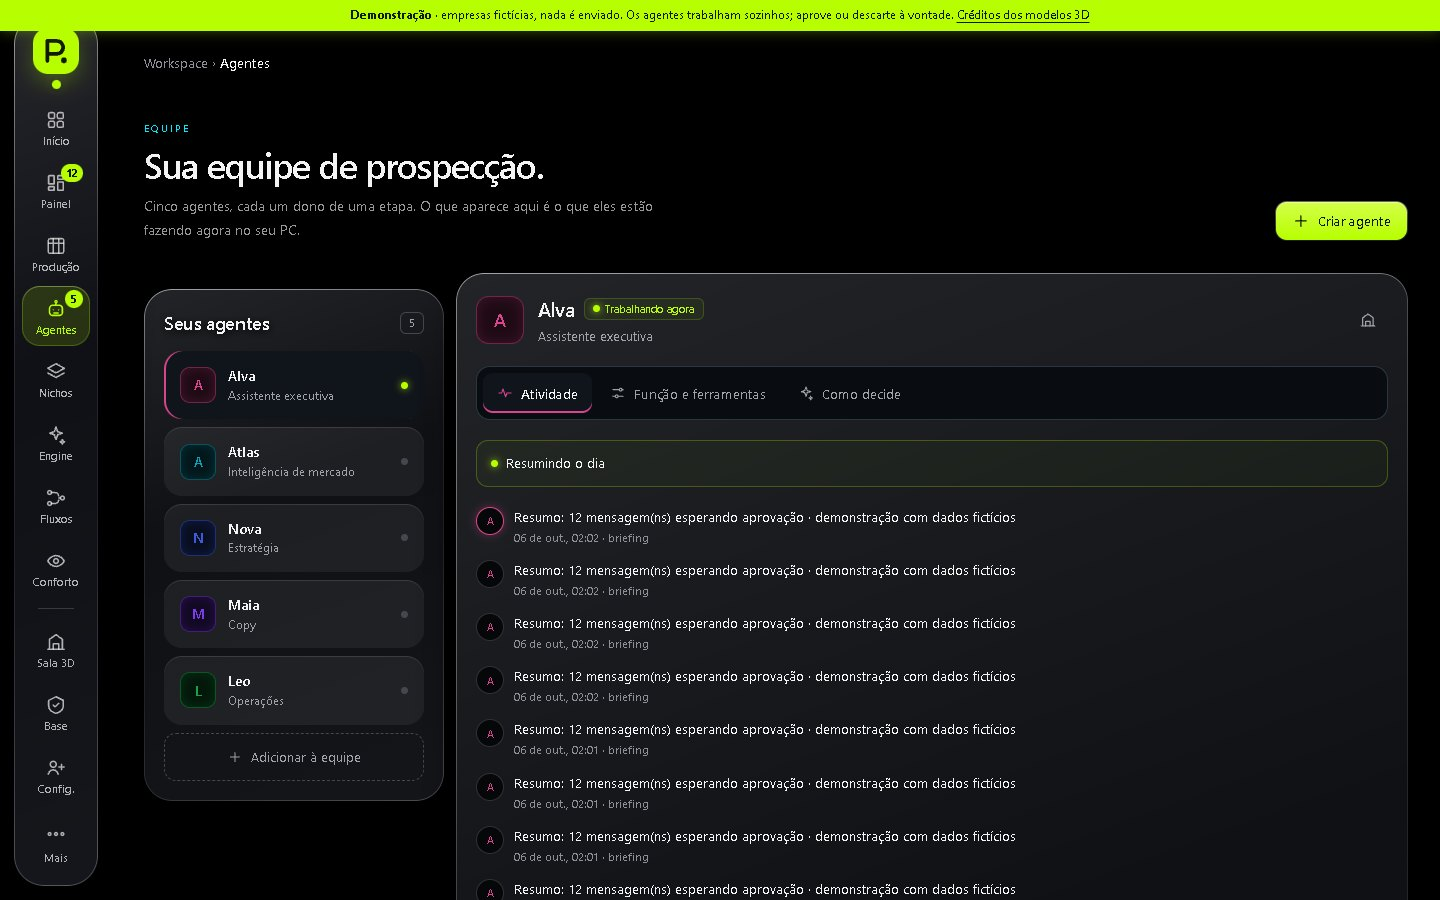
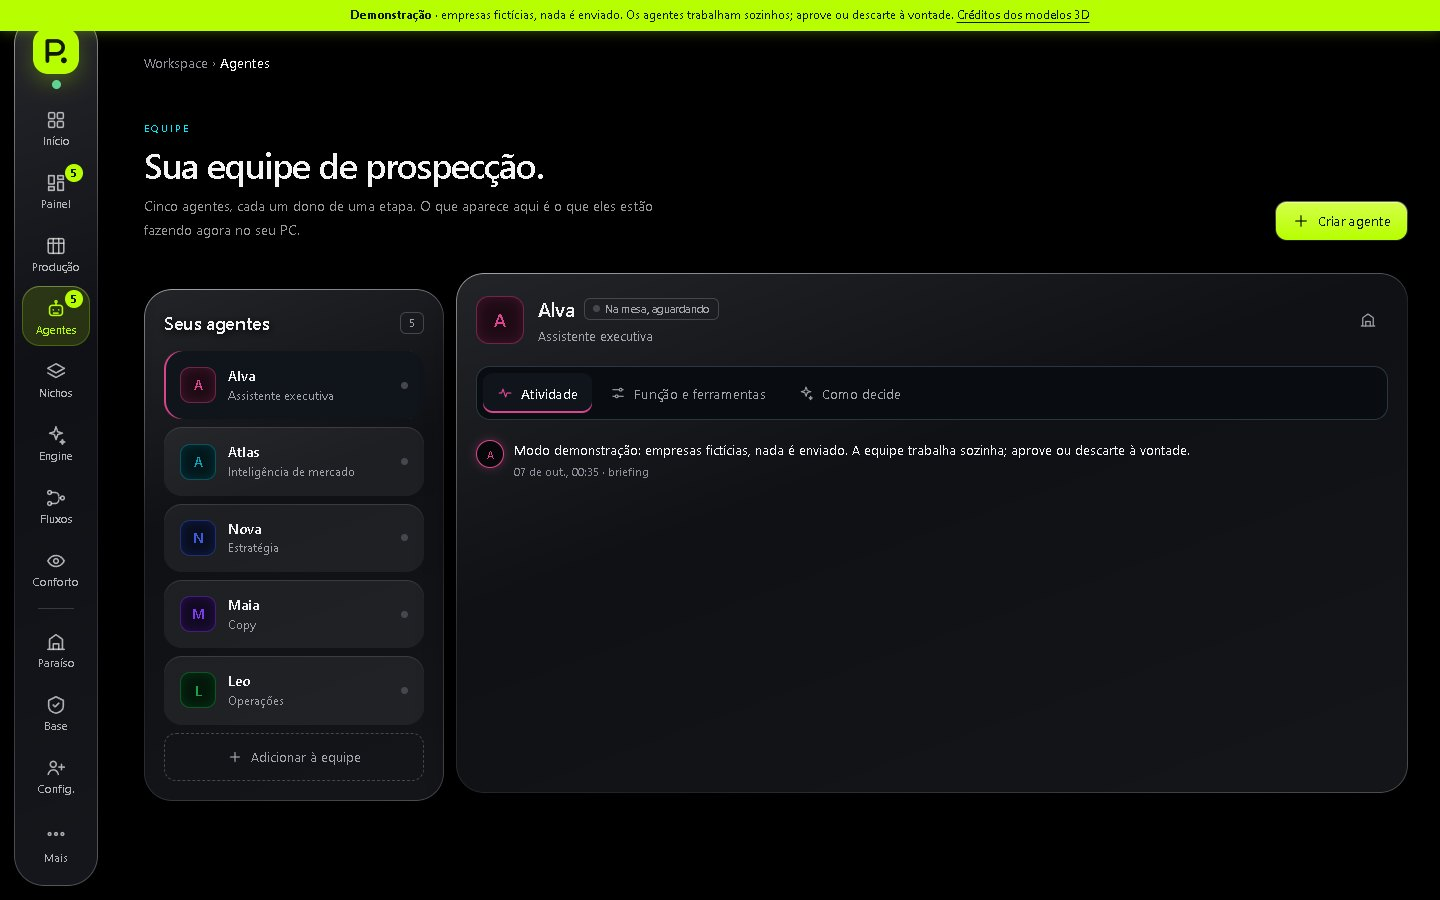
Paraiso Artificial: fachada de vidro, vista da baia e chuva no vidro, agentes na mesa e README atualizado
- Sala 3D agora se chama Paraiso Artificial (titulo, barra lateral, textos)
- Fachada de vidro do piso ao teto no lugar das janelinhas do kit (sala/fachada.js)
- Vista: foto de baia como fundo da cena (cover, mar embaixo) e video de chuva no vidro em mistura aditiva;
  os dois sao arquivos pessoais fora do git, sem eles a cena usa um ceu em degrade
- Agentes sentados na mesa (so saem para cafe e reuniao), robo com doca, sofa e plantas reais, TV com textura a 15 quadros por segundo
- README com os novos prints (sem a foto pessoal) e o novo nome; capturas.py espera a cena montar e bloqueia a midia pessoal

diff --git a/public/sala/fachada.js b/public/sala/fachada.js
@@ -1,0 +1,122 @@
+// Fachada de vidro do piso ao teto (blindex) nas paredes do fundo e da esquerda, no lugar das janelinhas do kit.
+// Montantes de alumínio escovado, viga de topo com faixa de LED, rodapé escuro.
+// Atrás do vidro: a foto "Paraíso Artificial" (fundo do Windows do Victor) como vista do prédio; sem a foto, um céu em degradê.
+// Sobre o vidro: o vídeo de chuva em mistura aditiva (só os brilhos das gotas aparecem). Foto e vídeo são arquivos locais que não vão
+// para o git; sem eles a fachada funciona do mesmo jeito. Nenhuma luz nova na cena (PointLight multiplicava o tempo de compilação).
+import * as THREE from 'three';
+
+function texturaCeu(noite) {
+  const c = document.createElement('canvas');
+  c.width = 8; c.height = 256;
+  const g = c.getContext('2d');
+  const gr = g.createLinearGradient(0, 0, 0, 256);
+  if (noite) { gr.addColorStop(0, '#060912'); gr.addColorStop(0.55, '#101a36'); gr.addColorStop(0.85, '#27355f'); gr.addColorStop(1, '#4a4f7a'); }
+  else { gr.addColorStop(0, '#8fb8e6'); gr.addColorStop(0.6, '#bcd6ee'); gr.addColorStop(1, '#e9eff5'); }
+  g.fillStyle = gr; g.fillRect(0, 0, 8, 256);
+  const t = new THREE.CanvasTexture(c);
+  t.colorSpace = THREE.SRGBColorSpace;
+  return t;
+}
+
+// vídeo de chuva como textura: 15 quadros por segundo bastam e cortam o envio de imagem para a placa de vídeo
+function texturaChuva(url) {
+  const video = document.createElement('video');
+  video.src = url; video.muted = true; video.loop = true; video.playsInline = true; video.preload = 'auto';
+  video.disablePictureInPicture = true; video.disableRemotePlayback = true;
+  const t = new THREE.VideoTexture(video);
+  t.colorSpace = THREE.SRGBColorSpace;
+  t.generateMipmaps = false; t.minFilter = THREE.LinearFilter;
+  t.wrapS = THREE.RepeatWrapping;
+  let ultimo = 0;
+  Object.defineProperty(t, 'needsUpdate', { set(v) { if (v !== true) return; const agora = performance.now(); if (agora - ultimo < 66) return; ultimo = agora; this.version++; } });
+  // pausa com a aba escondida (e volta sozinha): não gasta decodificação à toa
+  const tocar = () => { if (!document.hidden) video.play().catch(() => {}); else video.pause(); };
+  document.addEventListener('visibilitychange', tocar);
+  tocar();
+  return t;
+}
+
+export function criarFachada(cena, { X0, X1, Z0, Z1, altura = 3.3, fundoUrl = null, chuvaUrl = null, animar = true }) {
+  const vidro = new THREE.MeshPhysicalMaterial({ color: 0xc7e0f0, transparent: true, opacity: 0.16, roughness: 0.04, metalness: 0, clearcoat: 1, clearcoatRoughness: 0, envMapIntensity: 1.6, depthWrite: false });
+  const aluminio = new THREE.MeshStandardMaterial({ color: 0xa7b0ba, roughness: 0.32, metalness: 0.9 });
+  const escuro = new THREE.MeshStandardMaterial({ color: 0x23262d, roughness: 0.5, metalness: 0.6 });
+  const led = new THREE.MeshBasicMaterial({ color: 0xe6f1ff });
+  const grupo = new THREE.Group();
+  const caixa = (w, h, d, mat, x, y, z) => { const m = new THREE.Mesh(new THREE.BoxGeometry(w, h, d), mat); m.position.set(x, y, z); grupo.add(m); return m; };
+
+  // textura da chuva (uma só, repetida ao longo de cada parede) e material aditivo
+  const chuva = chuvaUrl && animar ? texturaChuva(chuvaUrl) : null;
+  const matChuva = chuva ? new THREE.MeshBasicMaterial({ map: chuva, transparent: true, blending: THREE.AdditiveBlending, depthWrite: false, opacity: 0.7, color: 0xffffff }) : null;
+
+  for (const lado of ['fundo', 'esquerda']) {
+    const comp = lado === 'fundo' ? X1 - X0 : Z1 - Z0;
+    const eixoX = lado === 'fundo';
+    const pos = (t, y, e = 0) => (eixoX ? [X0 + t, y, Z0 + 0.06 + e] : [X0 + 0.06 + e, y, Z0 + t]);
+    const dim = (w, h, d) => (eixoX ? [w, h, d] : [d, h, w]);
+    const [px, py, pz] = pos(comp / 2, altura / 2);
+    caixa(...dim(comp, altura, 0.02), vidro, px, py, pz).renderOrder = 3;           // vidro corrido
+    const n = Math.round(comp / 2.17);
+    for (let i = 0; i <= n; i++) { const [x, y, z] = pos((i * comp) / n, altura / 2); caixa(...dim(0.06, altura, 0.1), aluminio, x, y, z); } // montantes
+    { const [x, y, z] = pos(comp / 2, 0.07); caixa(...dim(comp, 0.14, 0.14), escuro, x, y, z); }                                         // rodapé escuro
+    { const [x, y, z] = pos(comp / 2, altura - 0.13); caixa(...dim(comp, 0.26, 0.16), escuro, x, y, z); }                                // viga de topo
+    { const [x, y, z] = pos(comp / 2, altura - 0.29, 0.02); caixa(...dim(comp, 0.022, 0.03), led, x, y, z); }                           // faixa de LED sob a viga
+    if (matChuva) {
+      // gotas coladas no vidro, por dentro: a textura se repete para a proporção 16:9 do vídeo não esticar
+      const geo = new THREE.PlaneGeometry(comp, altura - 0.45);
+      const m = new THREE.Mesh(geo, matChuva);
+      const [x, y, z] = pos(comp / 2, (altura - 0.45) / 2 + 0.15, 0.05);
+      m.position.set(x, y, z);
+      if (!eixoX) m.rotation.y = Math.PI / 2;
+      m.renderOrder = 4;
+      grupo.add(m);
+      // repete a textura: o plano é largo e baixo, o vídeo é 16:9
+      geo.attributes.uv.array.forEach((v, i, a) => { if (i % 2 === 0) a[i] = v * (comp / ((altura - 0.45) * (16 / 9))); });
+      geo.attributes.uv.needsUpdate = true;
+    }
+  }
+  caixa(0.42, altura, 0.42, escuro, X0 + 0.21, altura / 2, Z0 + 0.21); // pilar da quina
+  cena.add(grupo);
+
+  // vista atrás do vidro
+  const noite = texturaCeu(true), dia = texturaCeu(false);
+  const NOITE = new THREE.Color(0x394468), CLARO = new THREE.Color(0xffffff);
+
+  // Com a foto: ela vira o FUNDO DA CENA (como um pano de fundo preso à tela, "cover"): o mar fica embaixo e as montanhas em cima,
+  // do jeito que a foto foi tirada (de cima, olhando para a baía), e o vidro mostra esse mesmo fundo. Sem a foto: céu em degradê.
+  if (fundoUrl) {
+    const IA = 1672 / 941; // proporção da foto
+    let foto = null, aspecto = 16 / 9;
+    const enquadrar = () => {
+      if (!foto) return;
+      if (aspecto > IA) { foto.repeat.set(1, IA / aspecto); foto.offset.set(0, (1 - IA / aspecto) * 0.4); }   // tela mais larga: corta em cima (sobra mar embaixo)
+      else { foto.repeat.set(aspecto / IA, 1); foto.offset.set((1 - aspecto / IA) * 0.5, 0); }                // tela mais estreita: corta dos lados
+    };
+    new THREE.TextureLoader().load(fundoUrl, (t) => {
+      t.colorSpace = THREE.SRGBColorSpace; t.anisotropy = 4;
+      foto = t; enquadrar(); cena.background = foto;
+    });
+    return {
+      ajustarAspecto(a) { aspecto = a; enquadrar(); },
+      // de dia a foto aparece inteira; à noite a mesma foto escurece (intensidade do fundo), sem trocar de imagem
+      aplicarHora(valorDia) {
+        if (foto) { cena.background = foto; cena.backgroundIntensity = 0.42 + 0.58 * Math.min(1, valorDia * 1.6); }
+        if (matChuva) matChuva.opacity = 0.45 + 0.35 * (1 - valorDia);
+      },
+    };
+  }
+
+  const matFundo = new THREE.MeshBasicMaterial({ map: noite, fog: false, depthWrite: false });
+  const fundo = new THREE.Mesh(new THREE.PlaneGeometry(X1 - X0 + 14, 30), matFundo);
+  fundo.position.set((X0 + X1) / 2 - 4, 11, Z0 - 8);
+  const esquerda = new THREE.Mesh(new THREE.PlaneGeometry(Z1 - Z0 + 14, 30), matFundo);
+  esquerda.position.set(X0 - 8, 11, (Z0 + Z1) / 2 + 4); esquerda.rotation.y = Math.PI / 2;
+  cena.add(fundo, esquerda);
+  return {
+    ajustarAspecto() {},
+    aplicarHora(valorDia) {
+      const m = valorDia > 0.35 ? dia : noite;
+      if (matFundo.map !== m) { matFundo.map = m; matFundo.needsUpdate = true; }
+      if (matChuva) matChuva.opacity = 0.45 + 0.35 * (1 - valorDia);
+    },
+  };
+}

diff --git a/public/sala.js b/public/sala.js
@@ -1,4 +1,4 @@
-// Sala 3D: escritório vivo. O estado vem de /api/estado e /api/stream (o mesmo do painel);
+// Paraíso Artificial (a antiga Sala 3D): escritório vivo. O estado vem de /api/estado e /api/stream (o mesmo do painel);
 // cada agente decide onde estar pela máquina de estados (sala/comportamento.js), anda pela
 // grade com A* (sala/caminhos.js) e mostra no monitor o que está fazendo de verdade.
 import { lerCena, salvarCena } from './sala/cena-salva.js';
@@ -134,7 +134,12 @@ cena.add(sol, sol.target);
 // luminárias das mesas são um brilho desenhado no tampo (cena.js).
 const LUZ_NOITE = new THREE.Color(0xffd9a8), LUZ_DIA = new THREE.Color(0xffffff);
 
-const CORES = escuro ? { piso: 0x8a6446, parede: 0xd8d2c6 } : { piso: 0xb5865c, parede: 0xe9e3d8 }; // mesma cor dos segmentos de janela do kit
+// foto "Paraíso Artificial" (fundo do Windows do Victor) e vídeo de chuva no vidro: arquivos pessoais que não vão para o git;
+// só olha o cabeçalho (aborta antes de baixar) e, sem o arquivo, a cena usa o céu em degradê
+const existe = async (url) => { const c = new AbortController(); try { const r = await fetch(url, { signal: c.signal }); c.abort(); return r.ok; } catch { return false; } };
+const FUNDO_URL = (await existe('/assets/fundo/paraiso-artificial.jpg')) ? '/assets/fundo/paraiso-artificial.jpg' : null;
+const CHUVA_URL = (await existe('/assets/video/chuva-vidro.mp4')) ? '/assets/video/chuva-vidro.mp4' : null;
+const CORES = { ...(escuro ? { piso: 0x8a6446, parede: 0xd8d2c6 } : { piso: 0xb5865c, parede: 0xe9e3d8 }), fundoUrl: FUNDO_URL, chuvaUrl: CHUVA_URL, animar: !semMovimento }; // cores = mesma cor dos segmentos de janela do kit
 const escritorio = criarEscritorio(cena, CORES);
 const multidao = criarMultidao(escritorio.grade);
 let vagas = null;
@@ -154,6 +159,7 @@ function aplicarHora(agora = new Date()) {
   const h = agora.getHours() + agora.getMinutes() / 60;
   const dia = Math.max(0, Math.sin(((h - 6) / 12) * Math.PI)); // 0 à noite, 1 ao meio-dia
   cena.background = CEU_NOITE.clone().lerp(CEU_DIA, Math.min(1, dia * 1.6));
+  escritorio.fachada?.aplicarHora(dia); // céu atrás do vidro
   const ang = ((h - 6) / 12) * Math.PI;
   sol.position.set(Math.cos(ang) * 16, 4 + Math.max(0, Math.sin(ang)) * 16, 10);
   sol.intensity = 0.35 + 2.0 * dia;
@@ -685,6 +691,7 @@ function ajustarTamanho() {
   if (!w || !h) return;
   renderer.setSize(w, h); rotulos.setSize(w, h);
   camera.aspect = w / h; camera.updateProjectionMatrix();
+  escritorio.fachada?.ajustarAspecto(camera.aspect); // a foto de fundo acompanha o formato da tela
   const g = vistaGeral();
   controles.maxDistance = Math.max(42, g.distancia + 6);
   if (!cameraMexida && !voo) { controles.target.copy(g.alvo); camera.position.copy(g.pos); }

diff --git a/public/sala/cena.js b/public/sala/cena.js
@@ -8,6 +8,7 @@ import { criarAssinatura } from './assinatura.js';
 import { GLTFLoader } from 'three/addons/loaders/GLTFLoader.js';
 import { bloquear, buscarCaminho, criarGrade } from './caminhos.js';
 import { criarColocador, metade, padronizar } from './modelos.js';
+import { criarFachada } from './fachada.js';
 
 const ESCALA_KIT = 2;
 const LARGURA = 26, PROFUNDIDADE = 18, ALTURA_PAREDE = 2.6;
@@ -74,9 +75,9 @@ export function criarEscritorio(cena, cores) {
     return m;
   };
   // fundo e lateral esquerda: segmentos de parede com janela do kit (2 m cada)
+  // fachada de vidro do piso ao teto (blindex) no lugar das janelinhas do kit
   const janelas = [];
-  for (let x = X0 + 1; x < X1; x += 2) janelas.push(por('wallWindow', x, Z0 + 0.09, 0, { obstaculo: false }));
-  for (let z = Z0 + 1; z < Z1; z += 2) janelas.push(por('wallWindow', X0 + 0.09, z, Math.PI / 2, { obstaculo: false }));
+  const fachada = criarFachada(cena, { X0, X1, Z0, Z1, fundoUrl: cores.fundoUrl, chuvaUrl: cores.chuvaUrl, animar: cores.animar });
   bloquear(grade, X0, Z0, X1, Z0 + 0.3, 0);
   bloquear(grade, X0, Z0, X0 + 0.3, Z1, 0);
   // lateral direita com porta (as mensagens saem por ela)
@@ -324,7 +325,7 @@ export function criarEscritorio(cena, cores) {
     g.position.y = Math.abs(Math.sin(robo.passo)) * 0.025; // passada das pernas
   }
 
-  return { grade, postos, pontos, janelas, adicionarPosto, atualizar, painel: painelLed, tv: tvReuniao, tvs: [tvReuniao, tvLounge], robo: () => (robo.grupo ? { x: robo.grupo.position.x, z: robo.grupo.position.z } : null), vagas: VAGAS.length, porta: new THREE.Vector3(X1 + 0.6, 1.2, PORTA_Z), pronto: Promise.all(pendentes) };
+  return { grade, postos, pontos, janelas, fachada, adicionarPosto, atualizar, painel: painelLed, tv: tvReuniao, tvs: [tvReuniao, tvLounge], robo: () => (robo.grupo ? { x: robo.grupo.position.x, z: robo.grupo.position.z } : null), vagas: VAGAS.length, porta: new THREE.Vector3(X1 + 0.6, 1.2, PORTA_Z), pronto: Promise.all(pendentes) };
 }
 
 // piso de tacos: tábuas com tons levemente diferentes e juntas escuras, desenhado no canvas

diff --git a/public/conforto.js b/public/conforto.js
@@ -16,7 +16,7 @@ function desenhar() {
       <label class="check"><input type="checkbox" id="calmo" ${p.calmo ? 'checked' : ''}> Ligar o modo calmo neste navegador</label>
       <ul>
         <li>Sem animação decorativa (o fundo de letras que seguem o cursor, transições, confete).</li>
-        <li>Agentes na Sala 3D vão direto aos lugares, sem multidão andando.</li>
+        <li>Agentes no Paraíso Artificial vão direto aos lugares, sem multidão andando.</li>
         <li>Sem som da sala (digitação e envelopes) e sem mascotes.</li>
       </ul>
       <p class="sub">${sistemaReduz ? 'Seu sistema já pede "reduzir movimento": as animações já estão reduzidas, com ou sem o modo calmo.' : 'Se o seu sistema tiver "reduzir movimento" ligado, isso já vale sozinho.'}</p>
@@ -29,7 +29,7 @@ function desenhar() {
         <li>Daemon (Alva), Wumpus (Atlas), Grue (Nova), Fantasma (Maia) e Verme (Leo).</li>
         <li>Ficam mais ausentes que presentes: somem por 2 a 6 minutos e ficam só 10 a 24 segundos.</li>
         <li>São pequenas (64 px), ficam nas bordas, olham para o seu cursor, às vezes brincam em dupla e somem “como mágica”.</li>
-        <li>Nunca bloqueiam um clique, não fazem som e não aparecem no modo calmo nem na Sala 3D.</li>
+        <li>Nunca bloqueiam um clique, não fazem som e não aparecem no modo calmo nem no Paraíso Artificial.</li>
       </ul>
       <label class="check"><input type="checkbox" id="mascotes-sistema" ${p.mascotesApesarDoSistema ? 'checked' : ''} ${p.calmo ? 'disabled' : ''}> Mostrar mesmo com “reduzir movimento” do sistema</label>
       <p class="sub">${sistemaReduz ? 'O seu computador está com as animações do Windows desligadas (comum para ganhar velocidade), então as criaturas só aparecem se você marcar esta opção.' : 'O seu sistema não pede menos movimento; esta opção só faz diferença se isso mudar.'}</p>

diff --git a/public/configurador.js b/public/configurador.js
@@ -87,7 +87,7 @@ function fichaHtml() {
   const ferr = (f.ferramentas || []).map((k) => lista.ferramentas[k] || k);
   return `<article class="ficha" aria-label="Ficha do agente">
     <header><span class="marca-item" style="background:${esc(a.cor)}">${esc((f.nome || '?')[0])}</span><div><h2>${esc(f.nome)}</h2><p>${esc(f.papel || '')}</p></div>
-      ${a.status === 'ativo' ? '<span class="ativo"><span class="ponto ok"></span>ativo · mesa na Sala 3D</span>' : ''}</header>
+      ${a.status === 'ativo' ? '<span class="ativo"><span class="ponto ok"></span>ativo · mesa no Paraíso Artificial</span>' : ''}</header>
     <dl>
       <dt>Função</dt><dd>${esc(f.papel || '—')}</dd>
       <dt>Modos</dt><dd>${esc((f.modos || []).join(', ') || '—')}</dd>
@@ -130,7 +130,7 @@ function desenharChat() {
     // estado vazio = convite: o que a conversa vai perguntar, na ordem (é uma sequência de verdade)
     chat.innerHTML = `<section class="boas-vindas" aria-labelledby="bv-titulo">
       <h2 id="bv-titulo">Monte um agente conversando</h2>
-      <p>São 8 perguntas curtas. No fim você revisa a ficha e o agente ganha uma mesa na Sala 3D.</p>
+      <p>São 8 perguntas curtas. No fim você revisa a ficha e o agente ganha uma mesa no Paraíso Artificial.</p>
       <ol class="etapas-config">${ETAPAS_CONVITE.map(([t, d]) => `<li><b>${esc(t)}</b><span>${esc(d)}</span></li>`).join('')}</ol>
       <div class="bv-acoes"><button class="btn primario" data-comecar>Começar um agente novo</button>
       ${document.querySelector('#lista .item') ? '<span class="sub">ou continue um da lista ao lado</span>' : ''}</div>

diff --git a/public/sala.html b/public/sala.html
@@ -3,7 +3,7 @@
 <head>
 <meta charset="utf-8">
 <meta name="viewport" content="width=device-width, initial-scale=1">
-<title>Sala 3D · Prospector</title>
+<title>Paraíso Artificial · Prospector</title>
 <meta name="description" content="O escritório dos agentes: cada um aparece fazendo o que está fazendo de verdade.">
 <link rel="icon" type="image/png" href="/icone/prospector.png">
 <link rel="stylesheet" href="/ui/base.css">
@@ -39,7 +39,7 @@
   <main class="principal sala">
     <header class="cabecalho">
       <button class="btn icone fantasma abrir-menu" data-abrir-menu aria-label="Abrir menu"><svg class="ic" viewBox="0 0 24 24"><path d="M4 7h16M4 12h16M4 17h10"/></svg></button>
-      <div class="titulo"><h1>Sala 3D</h1><p id="chips" class="saude">Montando o escritório…</p></div>
+      <div class="titulo"><h1>Paraíso Artificial</h1><p id="chips" class="saude">Montando o escritório…</p></div>
       <div class="acoes">
         <button class="btn" id="btn-textos" aria-pressed="false" title="Esconde os nomes sobre os agentes e a lista de eventos, para ver só o ambiente">Ocultar textos</button>
         <button class="btn" id="btn-tv" aria-expanded="false" aria-controls="tv-painel" title="TV ao vivo na sala de reunião">TV</button>

diff --git a/public/agentes.js b/public/agentes.js
@@ -114,7 +114,7 @@ async function desenhar() {
   const corpo = aba === 'atividade' ? await corpoAtividade(id) : aba === 'funcao' ? corpoFuncao(id) : await corpoDecide(id);
   if (meu !== pedido) return; // chegou resposta de uma troca de aba antiga
   $('#detalhe').innerHTML = `<div class="o-detalhe-topo" style="--cor:${esc(a.cor)}"><span class="o-avatar grande">${esc(a.nome[0])}</span><div><h2>${esc(a.nome)} <span class="selo-o ${cor}"><span class="o-ponto ${cls}"></span>${rot}</span></h2><p>${esc(a.papel)}</p></div>
-      <a class="btn icone fantasma" href="/sala.html" title="Ver ${esc(a.nome)} na Sala 3D" aria-label="Ver ${esc(a.nome)} na Sala 3D">${ICONES.sala}</a></div>
+      <a class="btn icone fantasma" href="/sala.html" title="Ver ${esc(a.nome)} no Paraíso Artificial" aria-label="Ver ${esc(a.nome)} no Paraíso Artificial">${ICONES.sala}</a></div>
     <div class="o-abas" role="tablist" aria-label="Detalhes de ${esc(a.nome)}" style="--aba:${esc(a.cor)}">${ABAS.map(([k, r, i]) => `<button role="tab" data-aba="${k}" aria-selected="${k === aba}" tabindex="${k === aba ? 0 : -1}">${i}${r}</button>`).join('')}</div>
     <div class="o-corpo" role="tabpanel">${corpo}</div>`;
 }

diff --git a/public/ui/shell.js b/public/ui/shell.js
@@ -34,7 +34,7 @@ const PAGINAS = [
   ['agentes', '/agentes.html', 'Agentes', 'workspace', 'Agentes'],
   ['nichos', '/nichos.html', 'Nichos', 'workspace', 'Nichos'],
   ['engine', '/engine.html', 'Engine', 'workspace', 'Engine'],
-  ['sala', '/sala.html', 'Sala 3D', 'escritorio', 'Sala 3D'],
+  ['sala', '/sala.html', 'Paraíso Artificial', 'escritorio', 'Paraíso'],
   ['base', '/base.html', 'Base do Mestre', 'escritorio', 'Base'],
   ['configurador', '/configurador.html', 'Configurador', 'escritorio', 'Config.'],
   ['fluxos', '/fluxos.html', 'Fluxos', 'workspace', 'Fluxos'],

diff --git a/public/inicio.js b/public/inicio.js
@@ -21,7 +21,7 @@ const MODOS = [
   ['/producao.html', 'Quadro', '<rect x="3" y="4" width="18" height="16" rx="3"/><path d="M3 10h18M9 4v16"/>'],
   ['/agentes.html', 'Equipe', '<circle cx="12" cy="8" r="3.5"/><path d="M5 20c0-3.9 3.1-7 7-7s7 3.1 7 7"/>'],
   ['/nichos.html', 'Nichos', '<path d="M12 3l9 5-9 5-9-5z"/><path d="M3 13l9 5 9-5"/>'],
-  ['/sala.html', 'Sala 3D', '<path d="M3 21V9l9-6 9 6v12M9 21v-6h6v6"/>'],
+  ['/sala.html', 'Paraíso', '<path d="M3 21V9l9-6 9 6v12M9 21v-6h6v6"/>'],
 ];
 pagina.innerHTML = `
   <section class="v-hero" aria-labelledby="t-hero">

diff --git a/public/creditos.html b/public/creditos.html
@@ -5,7 +5,7 @@
 <meta name="viewport" content="width=device-width, initial-scale=1">
 <title>Créditos dos modelos 3D · Prospector</title>
 <link rel="icon" type="image/png" href="/icone/prospector.png">
-<meta name="description" content="Autores e licenças dos modelos 3D usados na Sala 3D.">
+<meta name="description" content="Autores e licenças dos modelos 3D usados no Paraíso Artificial.">
 <link rel="stylesheet" href="/ui/base.css">
 <style>
   .creditos { padding: 0 var(--esp-8) var(--esp-10); max-width: 1100px; }

diff --git a/scripts/capturas.py b/scripts/capturas.py
@@ -20,19 +20,26 @@ PAGINAS = [
     ('fluxos', '/fluxos.html', 3, None),
     ('engine', '/engine.html', 3, None),
     ('configurador', '/configurador.html', 3, None),
-    ('sala', '/sala.html', 35, "document.querySelector('#btn-rotulos')?.click?.()"),
-    ('base', '/base.html', 30, None),
+    ('sala', '/sala.html', 70, "document.querySelector('#btn-rotulos')?.click?.()"),
+    ('base', '/base.html', 50, None),
 ]
 
 with sync_playwright() as p:
     # usa a placa de vídeo real (sem GPU o WebGL por software não monta a Sala 3D a tempo)
     nav = p.chromium.launch(headless=True, args=['--enable-gpu', '--use-angle=d3d11', '--ignore-gpu-blocklist', '--enable-webgl'])
     ctx = nav.new_context(viewport={'width': 1440, 'height': 900}, device_scale_factor=1)
+    # a foto de fundo e o vídeo de chuva são do Victor (direitos de terceiros): nunca entram nos prints do README
+    ctx.route('**/assets/fundo/**', lambda r: r.abort())
+    ctx.route('**/assets/video/**', lambda r: r.abort())
     for nome, caminho, espera, js in PAGINAS:
         if SO and nome not in SO: continue
         pg = ctx.new_page()
         try:
             pg.goto(BASE + caminho, wait_until='domcontentloaded', timeout=180000)
+            if nome == 'sala':
+                # espera a cena 3D montar de verdade (a placa pode demorar) e só então deixa a tinta assentar
+                pg.wait_for_selector('.cena.pronta', state='attached', timeout=240000)  # seletor (a política de segurança da página bloqueia código em texto)
+                espera = 14
             time.sleep(espera)
             if js:
                 try: pg.evaluate(js)
